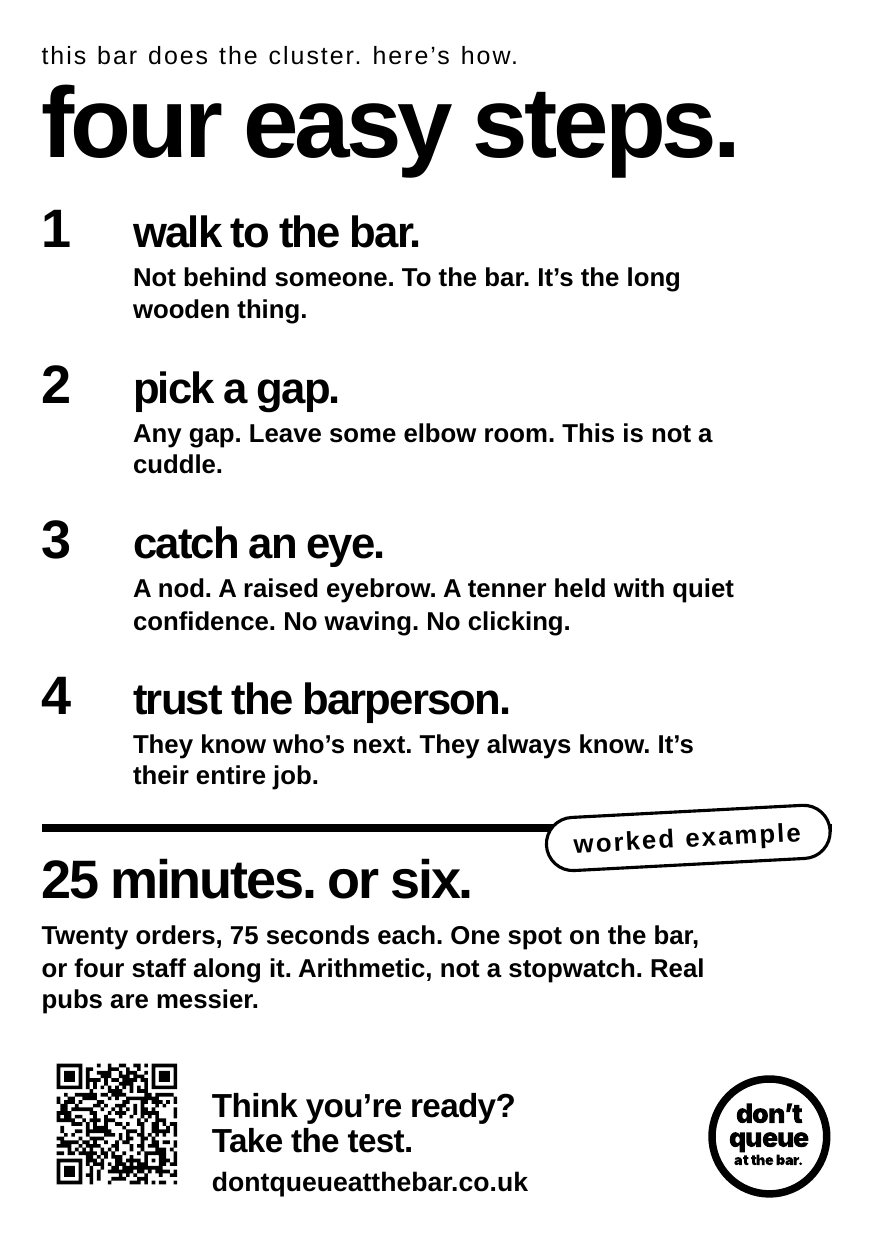
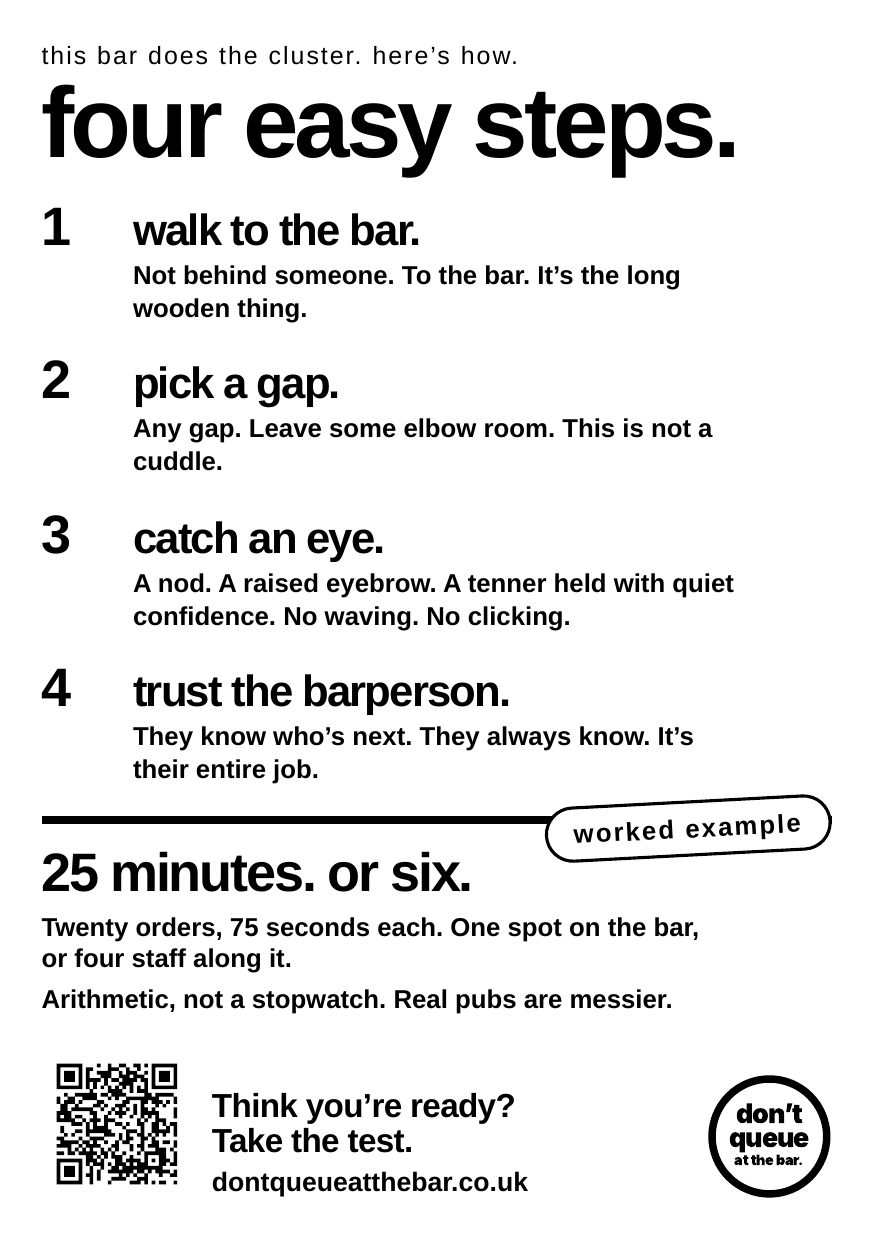
Add the poster downloads to the home page and fix the Round 2 copy
Claude-Session: https://claude.ai/code/session_015MZHaJjwU2Kxw4ZZD2X3pj

diff --git a/public/index.html b/public/index.html
@@ -59,7 +59,7 @@
       <li><a href="#history"><span class="mark"></span><span class="lbl"><small>Since 2020</small> How We Got Here</span></a></li>
       <li><a href="#poll"><span class="mark"></span><span class="lbl"><small>Pick a</small> Side</span></a></li>
       <li><a href="#petition-section"><span class="mark"></span><span class="lbl"><small>Now</small> Sign the Petition</span></a></li>
-      <li><a href="#mats"><span class="mark"></span><span class="lbl"><small>For pubs</small> Beer Mats</span></a></li>
+      <li><a href="#mats"><span class="mark"></span><span class="lbl"><small>For pubs</small> Mats and Posters</span></a></li>
     </ol>
   </nav>
 
@@ -464,13 +464,33 @@
   <section class="screen c-amber" id="mats">
     <div class="inner reveal">
       <p class="small">for pubs</p>
-      <h2 class="mega">Beer mats.</h2>
+      <h2 class="mega">Mats and posters.</h2>
       <p class="mid">A polite reminder, under a pint.</p>
       <div class="mats">
         <img class="mat m1" src="/mats/mat-front.svg" width="400" height="400" loading="lazy" alt="The front of the beer mat: the words ‘don’t queue at the bar’ inside a thick ring, black on white.">
         <img class="mat m2" src="/mats/mat-back.svg" width="400" height="400" loading="lazy" alt="The back of the beer mat: a large QR code to the website with the Don’t Queue At The Bar roundel in the middle, and the web address printed round the edge, white on black.">
       </div>
-      <p class="mid">Coming soon. <a class="plain" href="#petition-section">Sign the petition</a> and we’ll tell you first.</p>
+      <p class="mid">Mats coming soon. <a class="plain" href="#petition-section">Sign the petition</a> and we’ll tell you first.</p>
+
+      <!-- The flyers: real print pages in /flyers/, written by scripts/build-flyers.mjs. The PNGs
+           are previews of the PDFs; the links download the PDFs (Content-Disposition: attachment
+           comes from public/_headers). Update the sizes after a rebuild. -->
+      <div class="flyers" id="flyers">
+        <h3 class="big">Posters. Print your own.</h3>
+        <p class="mid">A4 or A5, any printer, black and white is fine. <br>Stick one behind the bar, facing the room.</p>
+        <div class="flyer-pair">
+          <img class="flyer f1" src="/flyers/preview-a.png" width="1191" height="1685" loading="lazy" alt="The poster: the ‘don’t queue at the bar’ stamp, then ‘spread out.’ in huge type, then ‘This bar does The Cluster. The bar staff know who’s next. They always did.’, with the roundel, ‘Sign the petition.’, the web address and a QR code at the foot. Black on white.">
+          <img class="flyer f2" src="/flyers/preview-b.png" width="1191" height="1685" loading="lazy" alt="The how-to: ‘four easy steps.’ with the four steps of The Cluster, walk to the bar, pick a gap, catch an eye, trust the barperson, then the worked example, ‘25 minutes. Or six.’, and at the foot a QR code, ‘Think you’re ready? Take the test.’, the web address and a small stamp. Black on white.">
+        </div>
+        <ul class="flyer-links">
+          <li><a href="/flyers/flyer-a4.pdf" download>A4 poster <small>PDF, 40 KB</small></a></li>
+          <li><a href="/flyers/flyer-a4-double.pdf" download>A4 poster and how-to <small>PDF, 85 KB</small></a></li>
+          <li><a href="/flyers/flyer-a5.pdf" download>A5 poster <small>PDF, 40 KB</small></a></li>
+          <li><a href="/flyers/flyer-a5-double.pdf" download>A5 poster and how-to <small>PDF, 85 KB</small></a></li>
+          <li><a href="/flyers/flyer-a5-two-up.pdf" download>Two A5 posters on one A4 <small>PDF, 50 KB</small></a></li>
+        </ul>
+        <p class="fine">The how-to goes on the back. Hand it to anyone who asks “the what?”</p>
+      </div>
     </div>
   </section>
   </main>

diff --git a/brand/final/review/flyers/round-2/marketing.md b/brand/final/review/flyers/round-2/marketing.md
@@ -1,0 +1,155 @@
+# Flyers, round 2: marketing notes
+
+Reviewed 13 Oct 2026 against the A4, A5, tenth-size and two-up renders in this folder, and the copy in `scripts/build-flyers.mjs`. Judged on message, order of reading and behaviour, not letterforms. Round 1 notes, the designer's notes and the merge decision are in `../round-1/`.
+
+## The short version
+
+The merge works. Face A is now a sign a pub would put up and Face B is a sheet a drinker would read with a pint in hand. Two things to fix, one to decide, one that's already right, then freeze:
+
+1. **Face A's house line breaks in the wrong place.** "This bar does The Cluster. The / bar staff know who’s next." splits "The bar staff" across the lines on every render. Force the break after "Cluster." so each sentence has its own line. This is the one thing on the sheet I'd call a fault.
+2. **Put "They always did." back,** as a third line of the house line. Reasons below. It is the only call in this round that is a judgement rather than a fix, so if the lead disagrees, at least fix the break.
+3. **On Face B, give the caveat its own line.** "Arithmetic, not a stopwatch. Real pubs are messier." is the sentence that keeps the sum off the pub's record, and at the moment it is buried in the middle of a paragraph with "Real / pubs are messier." split over the last two lines.
+4. **The address is now right.** Both faces say `dontqueueatthebar.co.uk`, one line, the same as the mats. The domain still has to be pointed at the site before anything is printed; until it is, the code and the address on every sheet go nowhere.
+
+Everything else: freeze.
+
+## Face A: permission, instruction, reassurance
+
+**From the door (the tenth).** The stamp reads first, "spread out." second, and the house line is just legible at a tenth, which means it reads at three to four metres on a wall. The post office strap has gone and the sheet is better for it: three things, stepping down, nothing competing. The roundel, caption and QR are a grey band at the foot, which is right; nobody scans from the door.
+
+**At the bar.** Stamp, "spread out.", "This bar does The Cluster.", "The bar staff know who’s next.", then the foot. That is the Round 1 order: the name (the prohibition, in the campaign's voice), the instruction, the permission, the reassurance, the ask.
+
+Is permission in the right place, third rather than first? Yes. The fear of looking like you're pushing in only starts when you're close enough to leave the line, and that is where the house line is readable. From across the room the drinker needs to know what the sign is about, which the stamp and "spread out." do between them. Putting the house line above "spread out." would make the sign about the pub rather than about what to do, and the instruction would stop carrying at distance. Leave the order.
+
+One note on "spread out." that isn't a problem but is worth saying once: those were the 2020 words too. Under "don’t queue at the bar." nobody will read them as distancing. If anything it reclaims the phrase.
+
+### Does the house line read as the pub's own sign?
+
+Yes, as long as the break is fixed. "This bar does The Cluster." is in the register of "this bar is cashless" and "last orders 10.45"; the capital letters on "The Cluster" make it a named thing the pub has adopted rather than a word the pub made up, and the stamp above it signs where the name came from. A landlord reads it as "we're joining that", not "we're telling people off". Good.
+
+The current break undoes some of that. "This bar does The Cluster. The" is a line that ends on a hanging article, and "bar staff know who’s next." starts a line with the subject already gone. On a wall each line is read as a unit, so the sign currently has two lines that each read slightly wrong. Set it as one sentence per line.
+
+### Is "The bar staff know who’s next." enough on its own?
+
+Nearly. It does the reassurance: the drinker's question is "will I be forgotten?", and the line answers it. What it doesn't do is two smaller jobs that "They always did." was doing in Round 1:
+
+- **It turns a promise into a fact.** On its own, "The bar staff know who’s next." is a claim the pub makes about tonight's staff. A landlord with a new starter on a Friday will feel that, and a drinker who gets missed once will point at it. "They always did." moves the sentence from a promise to a tradition: this is how bars have worked for as long as there have been bars, and the single file is the odd five years. That is the campaign's actual argument, and it is the argument that makes leaving the line feel normal rather than brave.
+- **It is the only dry note left on the poster.** With the post office strap cut, the sheet is a notice: name, order, rule. The stamp is lowercase and a little cheeky, but nothing on the face is a line in the campaign's voice. "They always did." is three words, lands as a wink, and costs one short line in a sheet with over 40 mm of air above the foot at A4.
+
+So: put it back, as the third line of the house line, one sentence per line:
+
+```
+This bar does The Cluster.
+The bar staff know who’s next.
+They always did.
+```
+
+If the lead wants the house line to stay two sentences, I won't fight it: the two-sentence version is a cleaner sign and the stamp plus "spread out." carry enough attitude from the door. But then fix the break, and don't try to get the wink back by restoring the post office strap. One or the other, never both.
+
+### Is losing "It’s a pub. Not a post office." a loss?
+
+A small one, and the right trade. The line is the campaign's best joke, but on a wall it was always going to be the fourth thing read, and nobody reads the fourth thing on a poster. The name on the stamp carries the prohibition, and the joke only explains the name; the hero, the OG image and the beer fund line keep it alive everywhere the campaign speaks in its own voice. The one thing the strap was doing that the poster now lacks is the dry sign-off, and "They always did." does that in fewer words and in the pub's voice, which is the voice this face is in. If "They always did." doesn't go back, the strap is the fallback, not an addition.
+
+## Face B: in the hand
+
+**Kicker.** "this bar does the cluster. here’s how." is the right join. It carries the pub's permission onto the sheet, hands over to the campaign for the steps ("here’s how" is the campaign talking), and it is the same words as Face A so a drinker who read the wall and then picks up the sheet gets one message, not two. It is the smallest type on the page, which the designer flagged, but the words are right. Freeze.
+
+**Headline and steps.** "four easy steps." and the four steps are the site's lines, verbatim, with the site's step heads. Nothing to change. The teasing ("It’s the long wooden thing.", "This is not a cuddle.") is safely in the campaign's voice because the kicker handed over. Step 4 keeps "barperson" (singular, the site's line) while the poster says "bar staff" (plural, the pub's line); that is deliberate from Round 1 and still right. Freeze.
+
+**The sum and its caveat.** "25 minutes. or six." under the rule with the tag on it is correct, and the tag is now big enough to be read as a label rather than a sticker. The paragraph is the problem. As set, the sum and the caveat run on as one paragraph of four sentences, and the line breaks fall as "...One spot on the bar, / or four staff along it. Arithmetic, not a stopwatch. Real / pubs are messier." The caveat is the sentence that stops a sheet left on the counter being read as this pub's waiting time, and it is the one sentence a skimmer won't see, because it starts mid-line and ends on a two-word orphan. Break it out:
+
+```
+Twenty orders, 75 seconds each. One spot on the bar, or four staff along it.
+Arithmetic, not a stopwatch. Real pubs are messier.
+```
+
+Two lines for the sum, one for the caveat, or a short gap between them. Same words. With that, the tag, the sum and the caveat do the three jobs: label, number, disclaimer, in that order.
+
+**The scan reason.** "Think you’re ready? / Take the test." is right, and the two-line setting makes the question and the dare read as a pair. It is the natural next line after four steps, and the test is the better lure than the petition for someone who has just been told how to hold a tenner. Freeze.
+
+**Does a sheet printed alone ask for the petition?** No, and it shouldn't. Face B is never offered as a file on its own: it is page 2 of the "poster and how-to" PDFs, so it exists behind a poster that says "Sign the petition." and a drinker who turns it over finds the ask. Where a pub prints page 2 only and leaves it on the bar, the QR goes to the home page, and the home page asks for the petition twice. Each face earns one scan; adding "then sign the petition" to Face B would be a second ask on a sheet whose job is the steps. Leave it.
+
+**The stamp bottom right** signs the sheet as the campaign's, which is what keeps the jokes and the sum off the pub. It's the right mark in the right corner.
+
+## The footers
+
+**Captions.** "Sign the petition." says what you get, not "scan me". "Think you’re ready? Take the test." likewise. Both right.
+
+**Where the caption sits.** On Face B the caption is beside the code, as Round 1 asked. On Face A it is beside the roundel, with the code alone on the far right. Read left to right the foot is "roundel, Sign the petition., address, QR", which does read as one line at A4, and I understand why the roundel took the caption's side (one mark per sheet, the lead's decision). But the thing that gets you to the petition is the code, and on Face A it has no words next to it; a reader has to join it to a caption 150 mm away. I'd mirror Face B: QR and caption at the left, the roundel at the right where Face B keeps its stamp. One footer layout for both faces, the caption on the code, the mark signing the corner. This is a preference, not a blocker; if the designer has a layout reason for the current foot, keep it.
+
+**The address.** `dontqueueatthebar.co.uk`, one line, lowercase, no scheme, under the caption: exactly what Round 1 asked for, and it now matches the mat back, so a pub that has both carries one address. It is the right length to read as a name rather than a URL, and at A5 and on the two-up it still holds under the caption. The code has dropped a version with the shorter string, which is a free gain for a photocopy. The only thing left is outside the copy: the domain has to be pointed at the site before anything is printed, since a sheet that sends a drinker to a parked page is worse than no sheet. Gate the download block on that, not on anything in this review.
+
+**PDF titles.** The published files are titled "Don’t queue at the bar: A4 poster", "...: A4 poster and how-to" and so on, which is what a landlord sees in the tab and the print dialog. Right as they are.
+
+## What a landlord would hesitate over
+
+In order of likelihood:
+
+1. **"The bar staff know who’s next."** as a bare promise, on a Friday, with a new starter. "They always did." softens it from a pledge to a truth about pubs. Without it, the landlord is signing a service guarantee in 11 mm type.
+2. **The sum on the counter.** "25 minutes. or six." left on the bar can be read as this pub's times. The tag and the caveat handle it, provided the caveat is visible (the break above). The landlord's defence is that the sheet is signed by the campaign, bottom right, and nothing on it is in the pub's voice after the kicker.
+3. **"The Cluster" as jargon.** A regular will ask "the what?" The answer is on the sheet behind the bar and on the back of the poster, and the asking is half the point. Not a problem.
+4. **Printing cost.** Both faces are light on ink and the designer's numbers say a mono laser is fine. Say so on the download block so nobody wonders.
+5. **A dead address.** Only if the sheet goes up before the domain is live. A landlord who scans their own poster and gets nothing takes it down and doesn't print the next one.
+
+Nothing on either face teases the pub's customers in the pub's voice, nothing shames the pub, and nothing promises a time in the pub's name. That was the Round 1 test and it passes.
+
+## Copy, line by line
+
+Face A:
+
+- Stamp: freeze.
+- "spread out.": freeze.
+- House line: one sentence per line, and add the third: "This bar does The Cluster." / "The bar staff know who’s next." / "They always did." (If kept to two sentences: fix the break only.)
+- "Sign the petition.": freeze.
+- Address "dontqueueatthebar.co.uk": freeze.
+
+Face B:
+
+- Kicker "this bar does the cluster. here’s how.": freeze.
+- "four easy steps.": freeze.
+- Steps 1 to 4, heads and bodies: freeze (the site's own lines; if the site changes, the sheet follows, never the other way).
+- Tag "worked example": freeze.
+- "25 minutes. or six.": freeze.
+- Paragraph: same words, caveat on its own line.
+- "Think you’re ready? Take the test.": freeze.
+- Address: freeze.
+
+Gender check: barperson, bar staff, they/them only, on both faces, the PDF titles and the download copy below. Typographic apostrophes throughout. Passed.
+
+## The download block on the home page
+
+It sits under the mats in the amber `#mats` section, so it inherits the "for pubs" kicker. Two short lines, five links, one line after. The links are PDFs; say so once, not on every label.
+
+```
+Posters. Print your own.
+A4 or A5, any printer, black and white is fine.
+Stick one behind the bar, facing the room.
+
+A4 poster
+A4 poster and how-to
+A5 poster
+A5 poster and how-to
+Two A5 posters on one A4
+
+The how-to goes on the back. Hand it to anyone who asks "the what?"
+```
+
+Notes:
+
+- "Print your own." rather than "print at home", because the person printing is a pub, on the office printer, not at home.
+- The labels name the size first because that is how a landlord picks: "what paper have I got?" then "poster or both?". "and how-to" is plainer than "double-sided" and matches the kicker's "here’s how".
+- "Two A5 posters on one A4" is the clearest label for the two-up; "two-up" is a printer's word. If it needs to be shorter on a phone, "Two A5 on one A4".
+- Mark the links as PDF once in the intro if the designer wants it: "Posters. Print your own (PDF)." I'd rather not; nobody has failed to open a PDF since 2010.
+- If the mats are still "coming soon" when this goes live, put the posters above the mats, not under them: lead with the thing a pub can have today, and let the mats be the thing they're told about first when they sign. The task puts the block under the mats, which also works; but the order "coming soon" then "here you go" reads back to front.
+
+### Should "Beer mats." and the rail label change?
+
+Yes, both, because the section is no longer about one thing and the thing it's named for is the one you can't have yet.
+
+- **Section heading:** "Posters and mats." The site's headings are two or three lowercase words that name the thing, and this names both, posters first because they exist. If the lead wants the pub addressed rather than the objects, "For your pub." works with the kicker, but the kicker already says "for pubs" and the heading would repeat it. Keep "A polite reminder, under a pint." as the mats' own line, moved to sit with the mat images rather than under the heading, since it describes a mat, not a poster.
+- **Rail label:** "For pubs / Posters and Mats". It is the same length as "How We Got Here", so it fits the rail. "Posters & Mats" if it needs to be one word shorter; the ampersand is fine in a nav label, not in the heading.
+- The `#mats` id and anchor can stay; nothing links to it by name except the rail, and renaming ids is how rails break.
+
+## Freeze list
+
+After the two fixes (house line break and third line, caveat on its own line) and the lead's call on the foot layout, freeze: both faces' words, the step copy's dependence on the site, the scan reasons, the captions, the address, the tag, the kicker. The download block goes live when the domain resolves, not before.
